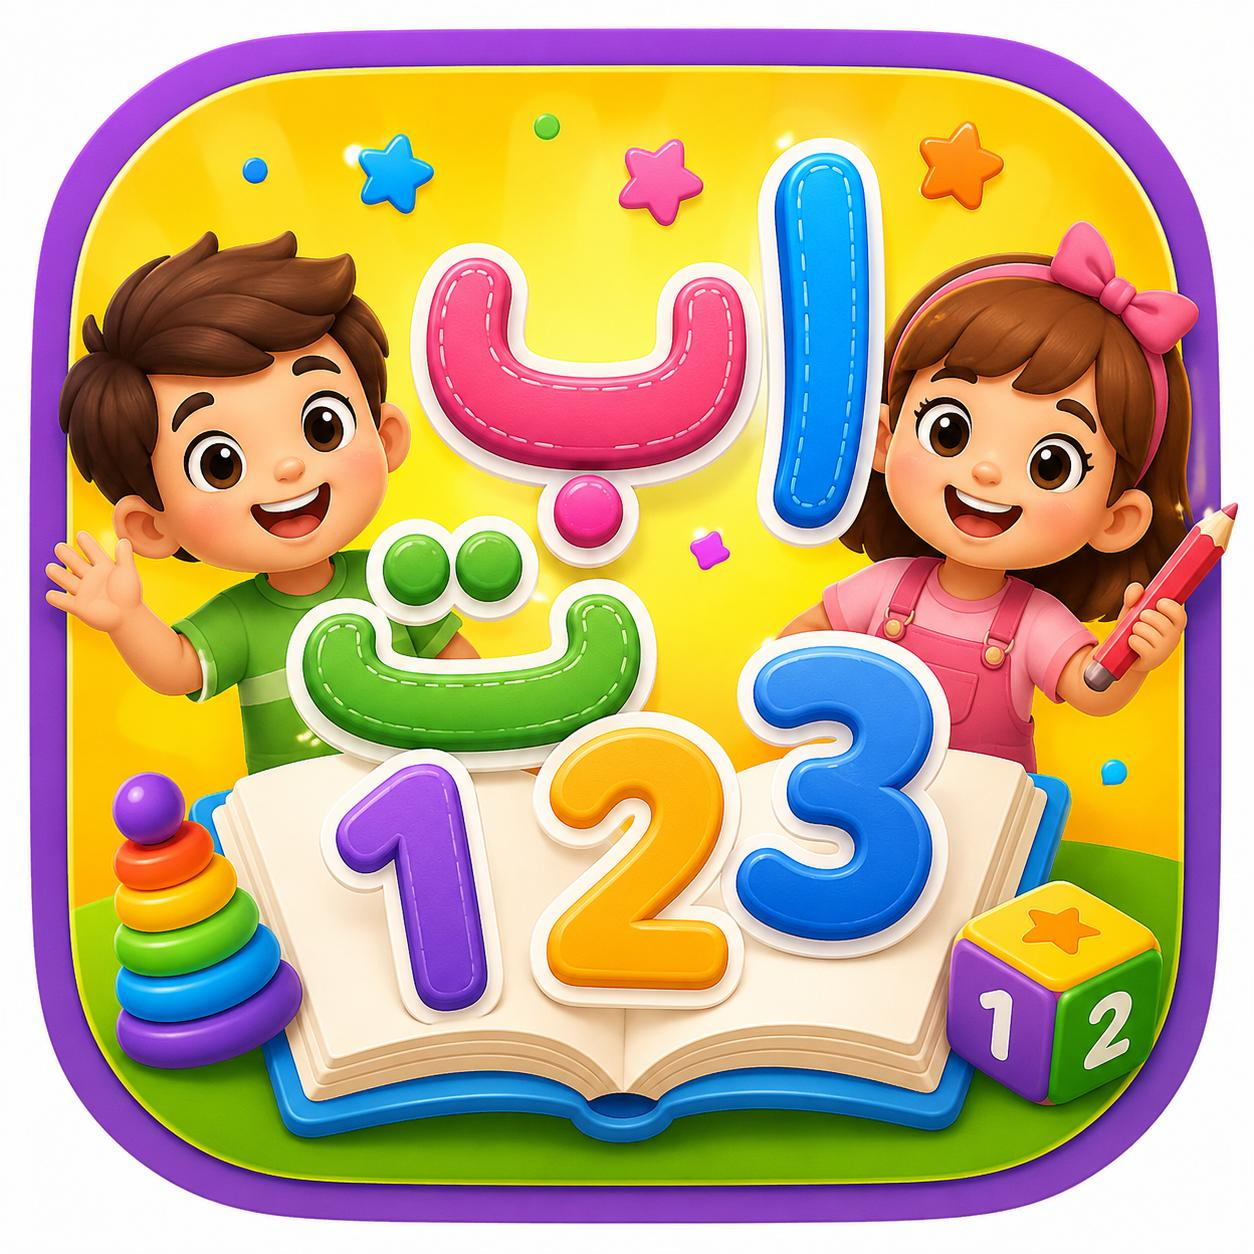
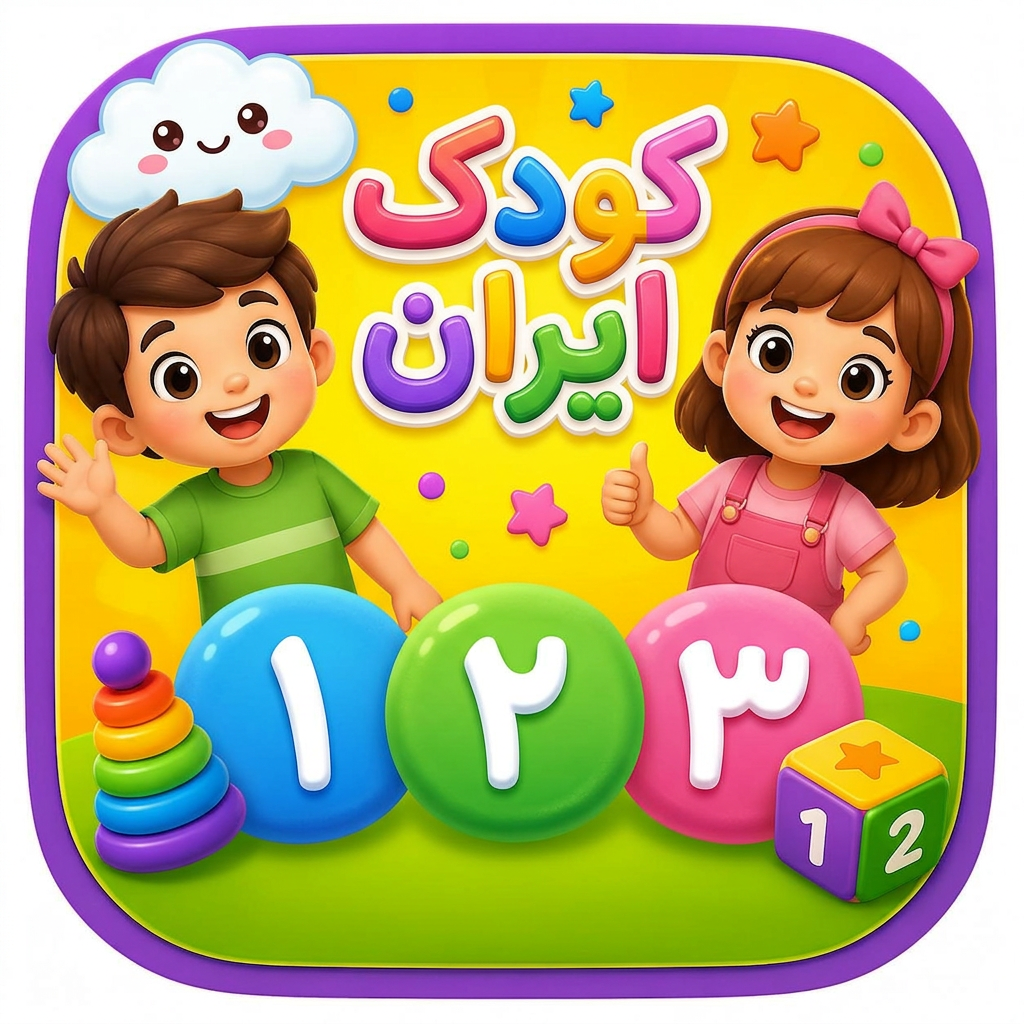
feat: جایگزینی آیکون اصلی اپلیکیشن با طرح کودک ایران (v3.1.0+7)

diff --git a/RELEASE_NOTES.md b/RELEASE_NOTES.md
@@ -20,6 +20,7 @@
 ---
 
 ## 🆕 تغییرات نسخه ۳.۱.۰
+- **آیکون جدید اپلیکیشن:** جایگزینی آیکون اصلی با طرح اختصاصی «کودک ایران ۱ ۲ ۳»
 - پل پرداخت کافهبازار/مایکت (`BillingService`) با MethodChannel اختصاصی
 - فعالسازی اشتراک فقط بعد از تایید پرداخت توسط استور
 - حالت سندباکس برای تست خریدها در بیلد debug
